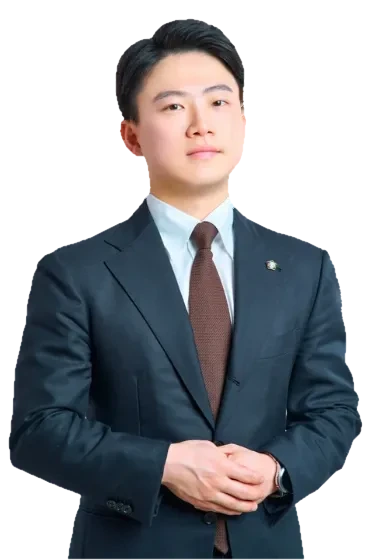
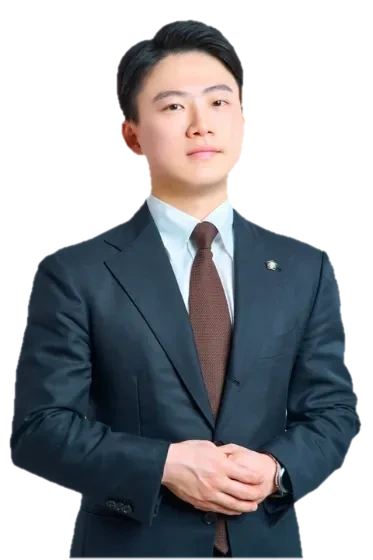
변호사 사진 6장 머리 테두리 흰 잔상 제거(가장자리 색 정리·윤곽 1px 다듬기), 캐시 갱신 ?v=2
Claude-Session: https://claude.ai/code/session_012oCMN1uXWRgGt2iT9fT9UM

diff --git a/dist/index.html b/dist/index.html
@@ -564,10 +564,10 @@ html.font-dandi body,html.font-dandi button,html.font-dandi input,html.font-dand
       <div class="h-prog"><i><b id="lwBar"></b></i><span><b id="lwNo">01</b> / 06</span><button class="lw-pause" id="lwPause" type="button" aria-label="자동 넘김 멈춤"><svg viewBox="0 0 24 24" id="lwIcon"><path d="M7 5h3.5v14H7zM13.5 5H17v14h-3.5z"/></svg></button></div>
     </div>
     <div class="h-pic lw-card">
-      <div class="lw-imgs"><img src="/img/lawyers/shin-bogwan.webp" alt="신보관 변호사" width="373" height="560" decoding="async" fetchpriority="high" class="on"><img src="/img/lawyers/kang-jaesin.webp" alt="강재신 변호사" width="373" height="560" decoding="async" loading="lazy"><img src="/img/lawyers/yoo-minwook.webp" alt="유민욱 변호사" width="373" height="560" decoding="async" loading="lazy"><img src="/img/lawyers/choi-yunseok.webp" alt="최윤석 변호사" width="373" height="560" decoding="async" loading="lazy"><img src="/img/lawyers/woo-jongjin.webp" alt="우종진 변호사" width="373" height="560" decoding="async" loading="lazy"><img src="/img/lawyers/choi-wonjin.webp" alt="최원진 변호사" width="373" height="560" decoding="async" loading="lazy"></div>
+      <div class="lw-imgs"><img src="/img/lawyers/shin-bogwan.webp?v=2" alt="신보관 변호사" width="373" height="560" decoding="async" fetchpriority="high" class="on"><img src="/img/lawyers/kang-jaesin.webp?v=2" alt="강재신 변호사" width="373" height="560" decoding="async" loading="lazy"><img src="/img/lawyers/yoo-minwook.webp?v=2" alt="유민욱 변호사" width="373" height="560" decoding="async" loading="lazy"><img src="/img/lawyers/choi-yunseok.webp?v=2" alt="최윤석 변호사" width="373" height="560" decoding="async" loading="lazy"><img src="/img/lawyers/woo-jongjin.webp?v=2" alt="우종진 변호사" width="373" height="560" decoding="async" loading="lazy"><img src="/img/lawyers/choi-wonjin.webp?v=2" alt="최원진 변호사" width="373" height="560" decoding="async" loading="lazy"></div>
       <div class="h-cap" aria-live="polite"><p class="h-cap-k">담당 변호사</p><div class="lw-info on" role="tabpanel" id="lw-p0" aria-labelledby="lw-t0"><small>서울대학교 경영학과<br>부산대학교 법학전문대학원</small><p><b>신보관</b><span>변호사 · 개인정보 보호책임자</span></p></div><div class="lw-info" role="tabpanel" id="lw-p1" aria-labelledby="lw-t1" hidden><small>서강대학교 경영학과<br>(前) 우리노무법인</small><p><b>강재신</b><span>변호사 · 공인노무사</span></p></div><div class="lw-info" role="tabpanel" id="lw-p2" aria-labelledby="lw-t2" hidden><small>(前) BNK부산은행 여신·외환 실무<br>대한변호사협회 금융변호사회 회원</small><p><b>유민욱</b><span>변호사</span></p></div><div class="lw-info" role="tabpanel" id="lw-p3" aria-labelledby="lw-t3" hidden><small>부산대학교 법학과 박사과정 수료(해상법)<br>(前) 부산경상대학교 초빙교수</small><p><b>최윤석</b><span>변호사</span></p></div><div class="lw-info" role="tabpanel" id="lw-p4" aria-labelledby="lw-t4" hidden><small>(前) 부산지방법원 실무수습<br>(前) 부산지방법원 국선변호인</small><p><b>우종진</b><span>변호사</span></p></div><div class="lw-info" role="tabpanel" id="lw-p5" aria-labelledby="lw-t5" hidden><small>부산시 전세사기피해지원센터 변호사<br>부산지방변호사회 중소기업고문변호단 위원</small><p><b>최원진</b><span>변호사 · 광고책임변호사</span></p></div></div>
     </div>
-    <div class="h-dots lw-tabs" role="tablist" aria-label="변호사 선택"><button type="button" role="tab" id="lw-t0" aria-controls="lw-p0" aria-selected="true" tabindex="0" aria-label="신보관 변호사"><img src="/img/lawyers/shin-bogwan.webp" alt="" width="373" height="560" loading="lazy"></button><button type="button" role="tab" id="lw-t1" aria-controls="lw-p1" aria-selected="false" tabindex="-1" aria-label="강재신 변호사"><img src="/img/lawyers/kang-jaesin.webp" alt="" width="373" height="560" loading="lazy"></button><button type="button" role="tab" id="lw-t2" aria-controls="lw-p2" aria-selected="false" tabindex="-1" aria-label="유민욱 변호사"><img src="/img/lawyers/yoo-minwook.webp" alt="" width="373" height="560" loading="lazy"></button><button type="button" role="tab" id="lw-t3" aria-controls="lw-p3" aria-selected="false" tabindex="-1" aria-label="최윤석 변호사"><img src="/img/lawyers/choi-yunseok.webp" alt="" width="373" height="560" loading="lazy"></button><button type="button" role="tab" id="lw-t4" aria-controls="lw-p4" aria-selected="false" tabindex="-1" aria-label="우종진 변호사"><img src="/img/lawyers/woo-jongjin.webp" alt="" width="373" height="560" loading="lazy"></button><button type="button" role="tab" id="lw-t5" aria-controls="lw-p5" aria-selected="false" tabindex="-1" aria-label="최원진 변호사"><img src="/img/lawyers/choi-wonjin.webp" alt="" width="373" height="560" loading="lazy"></button></div>
+    <div class="h-dots lw-tabs" role="tablist" aria-label="변호사 선택"><button type="button" role="tab" id="lw-t0" aria-controls="lw-p0" aria-selected="true" tabindex="0" aria-label="신보관 변호사"><img src="/img/lawyers/shin-bogwan.webp?v=2" alt="" width="373" height="560" loading="lazy"></button><button type="button" role="tab" id="lw-t1" aria-controls="lw-p1" aria-selected="false" tabindex="-1" aria-label="강재신 변호사"><img src="/img/lawyers/kang-jaesin.webp?v=2" alt="" width="373" height="560" loading="lazy"></button><button type="button" role="tab" id="lw-t2" aria-controls="lw-p2" aria-selected="false" tabindex="-1" aria-label="유민욱 변호사"><img src="/img/lawyers/yoo-minwook.webp?v=2" alt="" width="373" height="560" loading="lazy"></button><button type="button" role="tab" id="lw-t3" aria-controls="lw-p3" aria-selected="false" tabindex="-1" aria-label="최윤석 변호사"><img src="/img/lawyers/choi-yunseok.webp?v=2" alt="" width="373" height="560" loading="lazy"></button><button type="button" role="tab" id="lw-t4" aria-controls="lw-p4" aria-selected="false" tabindex="-1" aria-label="우종진 변호사"><img src="/img/lawyers/woo-jongjin.webp?v=2" alt="" width="373" height="560" loading="lazy"></button><button type="button" role="tab" id="lw-t5" aria-controls="lw-p5" aria-selected="false" tabindex="-1" aria-label="최원진 변호사"><img src="/img/lawyers/choi-wonjin.webp?v=2" alt="" width="373" height="560" loading="lazy"></button></div>
   </div>
   <div class="wrap">
   <ul class="hero-fields">

diff --git a/index.html b/index.html
@@ -564,10 +564,10 @@ html.font-dandi body,html.font-dandi button,html.font-dandi input,html.font-dand
       <div class="h-prog"><i><b id="lwBar"></b></i><span><b id="lwNo">01</b> / 06</span><button class="lw-pause" id="lwPause" type="button" aria-label="자동 넘김 멈춤"><svg viewBox="0 0 24 24" id="lwIcon"><path d="M7 5h3.5v14H7zM13.5 5H17v14h-3.5z"/></svg></button></div>
     </div>
     <div class="h-pic lw-card">
-      <div class="lw-imgs"><img src="/img/lawyers/shin-bogwan.webp" alt="신보관 변호사" width="373" height="560" decoding="async" fetchpriority="high" class="on"><img src="/img/lawyers/kang-jaesin.webp" alt="강재신 변호사" width="373" height="560" decoding="async" loading="lazy"><img src="/img/lawyers/yoo-minwook.webp" alt="유민욱 변호사" width="373" height="560" decoding="async" loading="lazy"><img src="/img/lawyers/choi-yunseok.webp" alt="최윤석 변호사" width="373" height="560" decoding="async" loading="lazy"><img src="/img/lawyers/woo-jongjin.webp" alt="우종진 변호사" width="373" height="560" decoding="async" loading="lazy"><img src="/img/lawyers/choi-wonjin.webp" alt="최원진 변호사" width="373" height="560" decoding="async" loading="lazy"></div>
+      <div class="lw-imgs"><img src="/img/lawyers/shin-bogwan.webp?v=2" alt="신보관 변호사" width="373" height="560" decoding="async" fetchpriority="high" class="on"><img src="/img/lawyers/kang-jaesin.webp?v=2" alt="강재신 변호사" width="373" height="560" decoding="async" loading="lazy"><img src="/img/lawyers/yoo-minwook.webp?v=2" alt="유민욱 변호사" width="373" height="560" decoding="async" loading="lazy"><img src="/img/lawyers/choi-yunseok.webp?v=2" alt="최윤석 변호사" width="373" height="560" decoding="async" loading="lazy"><img src="/img/lawyers/woo-jongjin.webp?v=2" alt="우종진 변호사" width="373" height="560" decoding="async" loading="lazy"><img src="/img/lawyers/choi-wonjin.webp?v=2" alt="최원진 변호사" width="373" height="560" decoding="async" loading="lazy"></div>
       <div class="h-cap" aria-live="polite"><p class="h-cap-k">담당 변호사</p><div class="lw-info on" role="tabpanel" id="lw-p0" aria-labelledby="lw-t0"><small>서울대학교 경영학과<br>부산대학교 법학전문대학원</small><p><b>신보관</b><span>변호사 · 개인정보 보호책임자</span></p></div><div class="lw-info" role="tabpanel" id="lw-p1" aria-labelledby="lw-t1" hidden><small>서강대학교 경영학과<br>(前) 우리노무법인</small><p><b>강재신</b><span>변호사 · 공인노무사</span></p></div><div class="lw-info" role="tabpanel" id="lw-p2" aria-labelledby="lw-t2" hidden><small>(前) BNK부산은행 여신·외환 실무<br>대한변호사협회 금융변호사회 회원</small><p><b>유민욱</b><span>변호사</span></p></div><div class="lw-info" role="tabpanel" id="lw-p3" aria-labelledby="lw-t3" hidden><small>부산대학교 법학과 박사과정 수료(해상법)<br>(前) 부산경상대학교 초빙교수</small><p><b>최윤석</b><span>변호사</span></p></div><div class="lw-info" role="tabpanel" id="lw-p4" aria-labelledby="lw-t4" hidden><small>(前) 부산지방법원 실무수습<br>(前) 부산지방법원 국선변호인</small><p><b>우종진</b><span>변호사</span></p></div><div class="lw-info" role="tabpanel" id="lw-p5" aria-labelledby="lw-t5" hidden><small>부산시 전세사기피해지원센터 변호사<br>부산지방변호사회 중소기업고문변호단 위원</small><p><b>최원진</b><span>변호사 · 광고책임변호사</span></p></div></div>
     </div>
-    <div class="h-dots lw-tabs" role="tablist" aria-label="변호사 선택"><button type="button" role="tab" id="lw-t0" aria-controls="lw-p0" aria-selected="true" tabindex="0" aria-label="신보관 변호사"><img src="/img/lawyers/shin-bogwan.webp" alt="" width="373" height="560" loading="lazy"></button><button type="button" role="tab" id="lw-t1" aria-controls="lw-p1" aria-selected="false" tabindex="-1" aria-label="강재신 변호사"><img src="/img/lawyers/kang-jaesin.webp" alt="" width="373" height="560" loading="lazy"></button><button type="button" role="tab" id="lw-t2" aria-controls="lw-p2" aria-selected="false" tabindex="-1" aria-label="유민욱 변호사"><img src="/img/lawyers/yoo-minwook.webp" alt="" width="373" height="560" loading="lazy"></button><button type="button" role="tab" id="lw-t3" aria-controls="lw-p3" aria-selected="false" tabindex="-1" aria-label="최윤석 변호사"><img src="/img/lawyers/choi-yunseok.webp" alt="" width="373" height="560" loading="lazy"></button><button type="button" role="tab" id="lw-t4" aria-controls="lw-p4" aria-selected="false" tabindex="-1" aria-label="우종진 변호사"><img src="/img/lawyers/woo-jongjin.webp" alt="" width="373" height="560" loading="lazy"></button><button type="button" role="tab" id="lw-t5" aria-controls="lw-p5" aria-selected="false" tabindex="-1" aria-label="최원진 변호사"><img src="/img/lawyers/choi-wonjin.webp" alt="" width="373" height="560" loading="lazy"></button></div>
+    <div class="h-dots lw-tabs" role="tablist" aria-label="변호사 선택"><button type="button" role="tab" id="lw-t0" aria-controls="lw-p0" aria-selected="true" tabindex="0" aria-label="신보관 변호사"><img src="/img/lawyers/shin-bogwan.webp?v=2" alt="" width="373" height="560" loading="lazy"></button><button type="button" role="tab" id="lw-t1" aria-controls="lw-p1" aria-selected="false" tabindex="-1" aria-label="강재신 변호사"><img src="/img/lawyers/kang-jaesin.webp?v=2" alt="" width="373" height="560" loading="lazy"></button><button type="button" role="tab" id="lw-t2" aria-controls="lw-p2" aria-selected="false" tabindex="-1" aria-label="유민욱 변호사"><img src="/img/lawyers/yoo-minwook.webp?v=2" alt="" width="373" height="560" loading="lazy"></button><button type="button" role="tab" id="lw-t3" aria-controls="lw-p3" aria-selected="false" tabindex="-1" aria-label="최윤석 변호사"><img src="/img/lawyers/choi-yunseok.webp?v=2" alt="" width="373" height="560" loading="lazy"></button><button type="button" role="tab" id="lw-t4" aria-controls="lw-p4" aria-selected="false" tabindex="-1" aria-label="우종진 변호사"><img src="/img/lawyers/woo-jongjin.webp?v=2" alt="" width="373" height="560" loading="lazy"></button><button type="button" role="tab" id="lw-t5" aria-controls="lw-p5" aria-selected="false" tabindex="-1" aria-label="최원진 변호사"><img src="/img/lawyers/choi-wonjin.webp?v=2" alt="" width="373" height="560" loading="lazy"></button></div>
   </div>
   <div class="wrap">
   <ul class="hero-fields">
